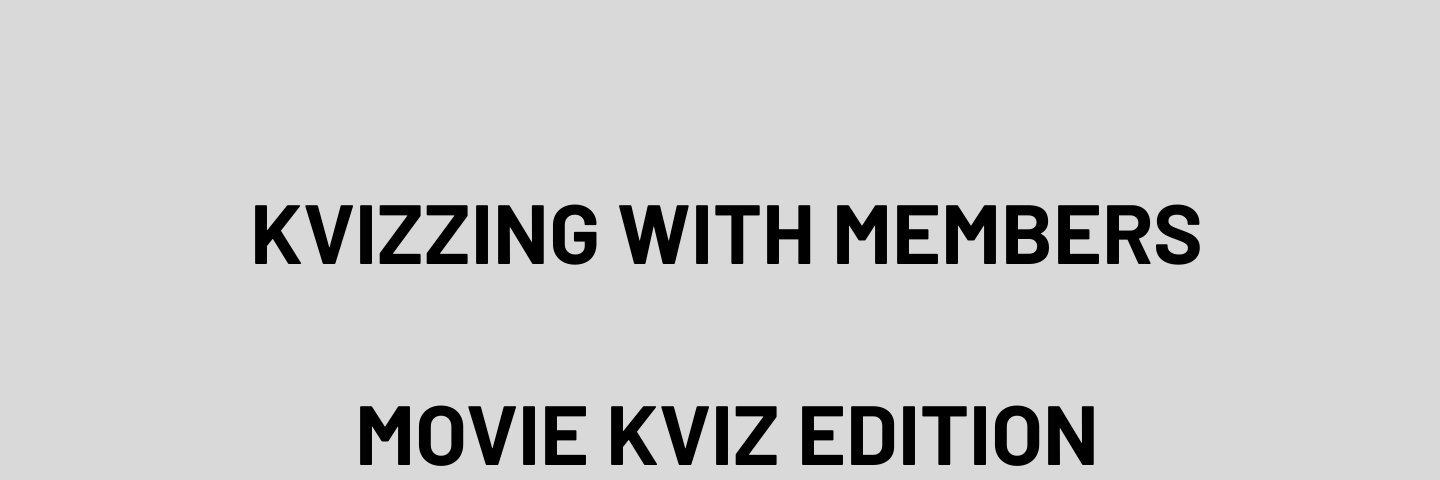
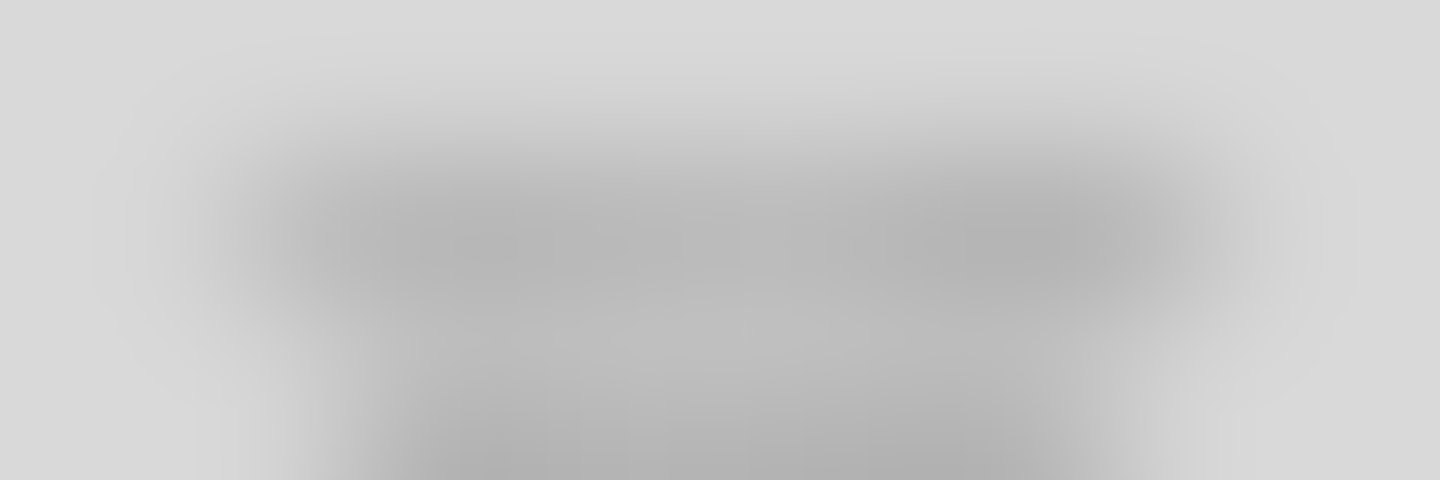
fix(sessions): blur deck thumbnails so slide title text stops competing with card UI text
Top-anchoring the crop (previous fix) kept the title in frame, but it was
still crisp and readable — and it renders as a background behind the
card's own text (session name, "Hosted by ..."), so two overlapping blocks
of readable text is illegible, worse than the original problem.

A first pass at a light blur (radius ~w/120) wasn't enough to stop the
title reading as text. Bumped to w/20, verified visually against all 5
pilot decks: title text is now a soft color texture, not legible letters,
while the deck's color identity still comes through.

diff --git a/v2/pipeline/utils/import_deck_questions.py b/v2/pipeline/utils/import_deck_questions.py
@@ -183,9 +183,14 @@ def ensure_session_thumbnail(
     banner (~3:1) with background-position centered, so a plain full-slide
     render gets center-cropped down to a thin horizontal strip — and title
     decks consistently put the title/byline text in the top portion, so a
-    dead-center crop cuts it out entirely. Cropping to the banner aspect
-    ourselves, anchored to the top of the slide, keeps the title visible
-    instead of leaving it to CSS's center crop.
+    dead-center crop cuts it out entirely (top-anchoring the crop fixes
+    that). But the title text itself is still crisp and readable at full
+    size, and it's rendered as a *background* behind the card's own UI text
+    (session name, "Hosted by ...") — two overlapping blocks of readable
+    text is illegible, worse than showing no text at all. Blurring after
+    crop turns the slide's own text into soft color texture (keeps the
+    deck's visual identity/colors) without competing for the reader's
+    attention the way crisp text does.
     """
     out_path = images_dir / f"{session_id}.jpg"
     if out_path.exists():
@@ -194,7 +199,7 @@ def ensure_session_thumbnail(
         return False
     try:
         import fitz
-        from PIL import Image
+        from PIL import Image, ImageFilter
         import io
 
         doc = fitz.open(quiz_decks_dir / rel_path)
@@ -208,6 +213,7 @@ def ensure_session_thumbnail(
         target_aspect = 3.0  # matches the common existing session-image shape
         crop_h = min(h, round(w / target_aspect))
         im = im.crop((0, 0, w, crop_h))  # top-anchored, not center-cropped
+        im = im.filter(ImageFilter.GaussianBlur(radius=max(20, w // 20)))
 
         images_dir.mkdir(parents=True, exist_ok=True)
         im.save(str(out_path), quality=85)
